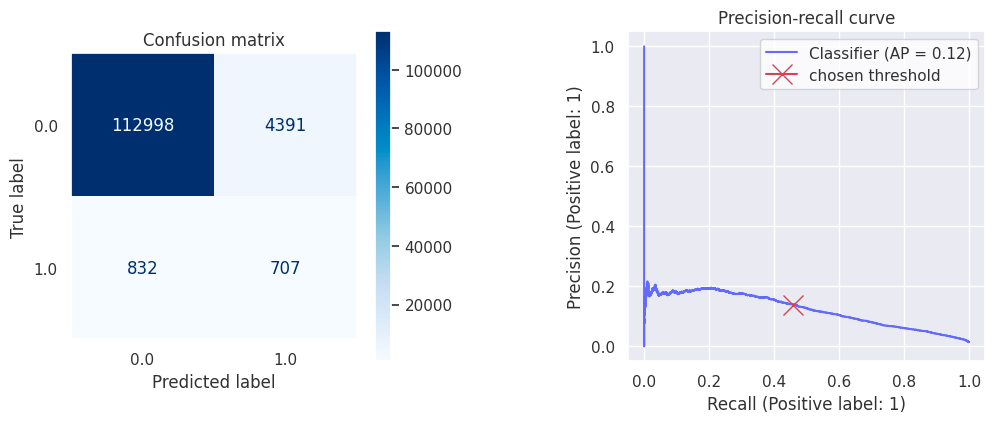
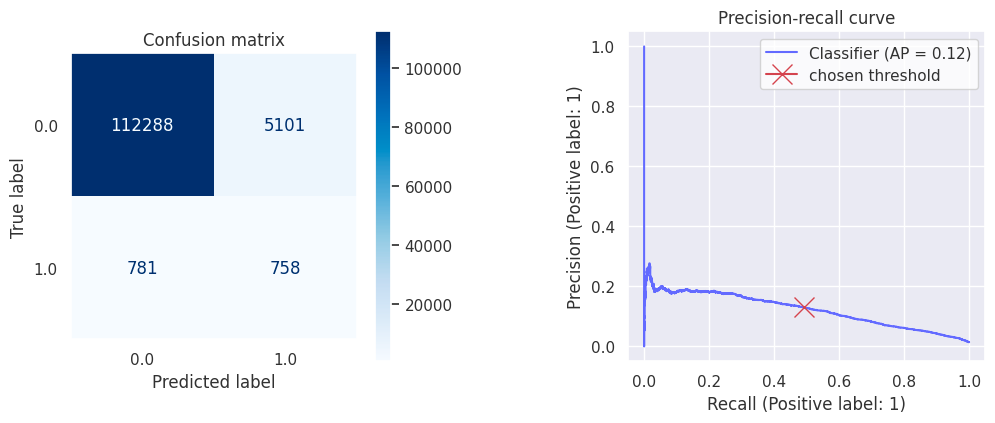
update readme

diff --git a/README.md b/README.md
@@ -68,7 +68,7 @@ I tried out training two models: LightGBM & a multi-layer perceptron. Perceptron
 | Model                  | Avg. precision score | F1    |
 |------------------------|----------------------|-------|
 | LightGBM               | 0.103                | 0.114 |
-| Multi-layer perceptron | 0.122                | 0.213 |
+| Multi-layer perceptron | 0.121                | 0.205 |
 ```
 
 ## LightGBM
@@ -90,7 +90,7 @@ Then I picked multi-layer perceptron as the first neural model to train. After h
 ```
 | Avg. precision score | F1    |
 |----------------------|-------|
-| 0.122                | 0.213 |
+| 0.121                | 0.205 |
 ```
 
 ![](img/results-mlp-fine-tuned.png)
